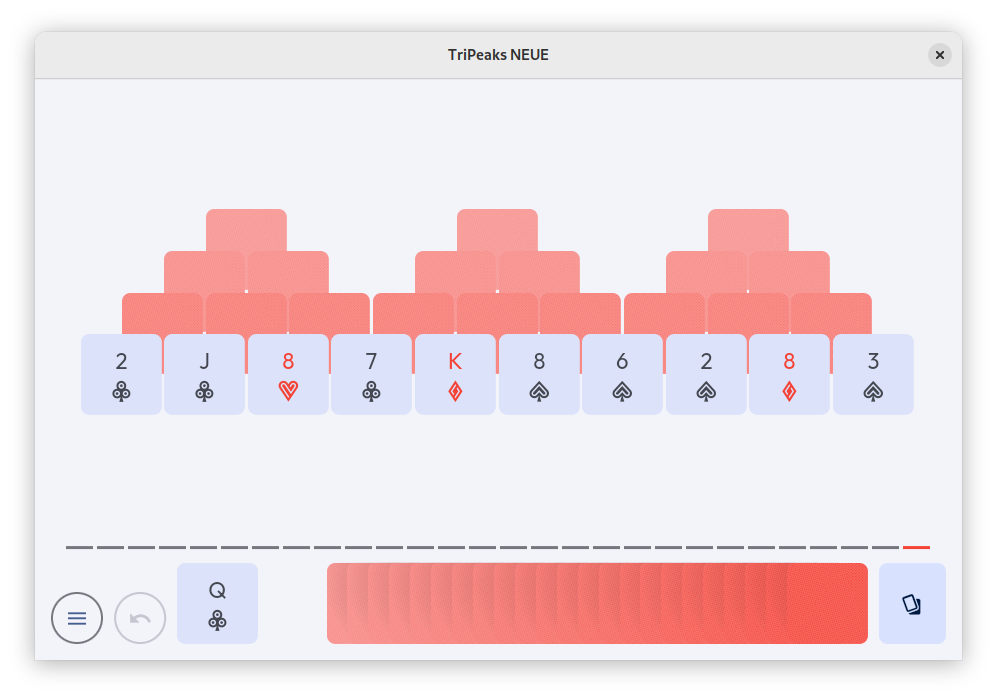
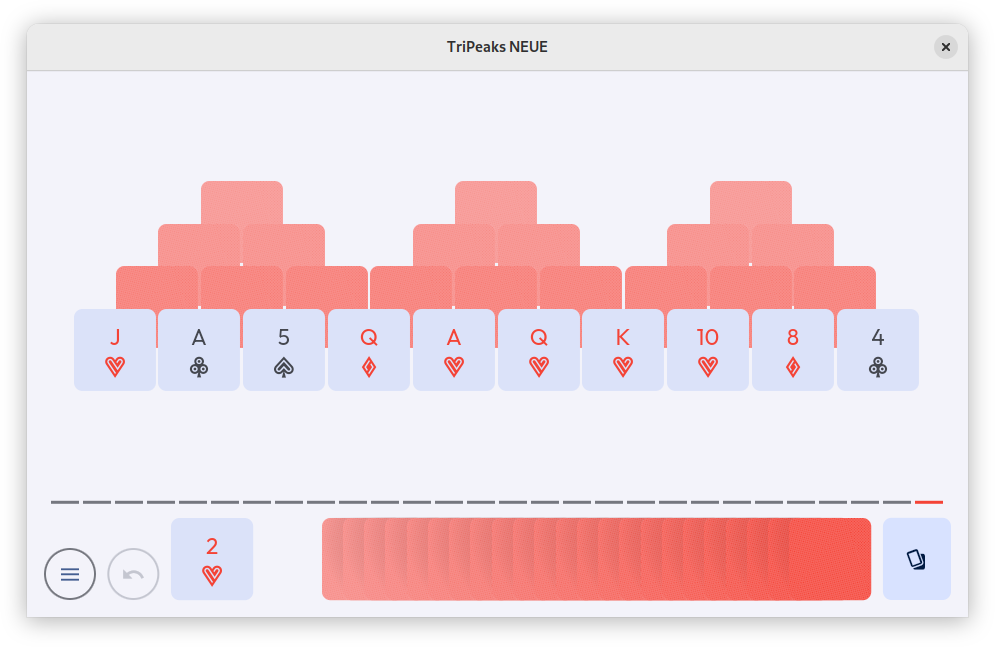
Prepare for a new release

diff --git a/lib/oss_licenses.dart b/lib/oss_licenses.dart
@@ -1868,13 +1868,13 @@ OF THIS SOFTWARE, EVEN IF ADVISED OF THE POSSIBILITY OF SUCH DAMAGE.''',
     dependencies: []
   );
 
-/// flutter 3.29.2
+/// flutter 3.29.3
 const _flutter = Package(
     name: 'flutter',
     description: 'A framework for writing Flutter applications',
     homepage: 'https://flutter.dev',
     authors: [],
-    version: '3.29.2',
+    version: '3.29.3',
     license: '''Copyright 2014 The Flutter Authors. All rights reserved.
 
 Redistribution and use in source and binary forms, with or without modification,

diff --git a/README.md b/README.md
@@ -5,8 +5,6 @@ A simple [Tri Peaks game](https://en.wikipedia.org/wiki/Tri_Peaks_(game)), using
 [Play online](https://mimoguz.github.io/tripeaks_neue/index.html)
 
 <div align="center">
-
-
 <a href="https://f-droid.org/en/packages/io.github.mimoguz.tripeaksneue/"><img src="https://fdroid.gitlab.io/artwork/badge/get-it-on.png" alt="Get it on F-Droid" height="80"></a>
 
 <a href="https://flathub.org/apps/io.github.mimoguz.tripeaks_neue"> <img width="180" alt="Get it on Flathub" src="https://flathub.org/api/badge?locale=en"/></a>
@@ -24,8 +22,8 @@ A simple [Tri Peaks game](https://en.wikipedia.org/wiki/Tri_Peaks_(game)), using
 - Portrait and landscape orientation support
 
 ## Screenshots
-![Portait](./.github/readme/screenshot_portrait_2025-04-05.png)
-![Landscape](./.github/readme/screenshot_landscape_2025-04-05.png)
+![Portait](./.github/readme/screenshot_portrait_2025-04-18.png)
+![Landscape](./.github/readme/screenshot_landscape_2025-04-18.png)
 
 ## Credit where credit is due
 

diff --git a/release_checklist.md b/release_checklist.md
@@ -1,11 +1,13 @@
-- [ ] Run ```build_runner build```
-- [ ] Run ```flutter_oss_licenses:generate```
+# 0.9.0
+
+- [x] Run ```build_runner build```
+- [x] Run ```flutter_oss_licenses:generate```
 - [x] F-Droid changelog
 - [x] F-Droid screenshots
 - [x] F-Droid icon
-- [ ] Flatpak changelog
-- [ ] Flatpak screenshots
+- [x] Flatpak changelog
+- [x] Flatpak screenshots
 - [x] Flatpak icon
 - [x] Flutter version
-- [ ] Readme images
-- [ ] Web release
+- [x] Readme images
+- [x] Web release
